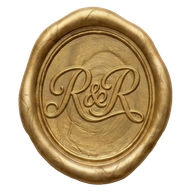
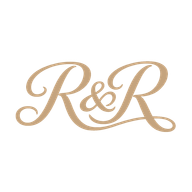
Save the date improvements

diff --git a/src/components/WeddingCalendarButton.tsx b/src/components/WeddingCalendarButton.tsx
@@ -24,29 +24,39 @@ export type WeddingCalendarVariant = "hero" | "forestGold";
 
 const triggerStyles: Record<WeddingCalendarVariant, string> = {
   hero:
-    "inline-flex items-center gap-3 rounded-full border border-white/20 px-8 py-3 font-sans text-[13px] font-semibold text-white/70 backdrop-blur-sm transition-all duration-300 hover:border-gold/50 hover:text-gold",
+    "flex flex-col items-center gap-1.5 rounded-full border border-white/20 px-5 py-3 font-sans text-[11px] font-semibold text-white/70 backdrop-blur-sm transition-all duration-300 hover:border-gold/50 hover:text-gold sm:flex-row sm:gap-3 sm:px-8 sm:text-[13px]",
   forestGold:
-    "inline-flex items-center gap-3 rounded-full border border-gold/45 px-8 py-3 font-sans text-[13px] font-semibold text-gold/90 backdrop-blur-sm transition-all duration-300 hover:border-gold hover:bg-gold/10 hover:text-gold",
+    "flex flex-col items-center gap-1.5 rounded-full border border-gold/45 px-5 py-3 font-sans text-[11px] font-semibold text-gold/90 backdrop-blur-sm transition-all duration-300 hover:border-gold hover:bg-gold/10 hover:text-gold sm:flex-row sm:gap-3 sm:px-8 sm:text-[13px]",
 };
 
 const menuItemStyles: Record<WeddingCalendarVariant, string> = {
   hero:
-    "flex items-center justify-center gap-2 whitespace-nowrap rounded-full border border-white/15 bg-deep/90 px-4 py-2.5 font-sans text-[10px] font-medium uppercase text-white/70 backdrop-blur-md transition-colors hover:border-gold/50 hover:text-gold",
+    "flex items-center justify-center gap-1.5 rounded-full border border-white/15 bg-deep/90 px-5 py-3 font-sans text-[11px] font-medium text-white/70 backdrop-blur-md transition-colors hover:border-gold/50 hover:text-gold sm:gap-3 sm:px-8 sm:py-3 sm:text-[13px]",
   forestGold:
-    "flex items-center justify-center gap-2 whitespace-nowrap rounded-full border border-gold/25 bg-forest px-4 py-2.5 font-sans text-[10px] font-medium uppercase text-gold/85 backdrop-blur-md transition-colors hover:border-gold/50 hover:bg-gold/5 hover:text-gold",
+    "flex items-center justify-center gap-2 rounded-full border border-gold/25 bg-forest px-5 py-2.5 font-sans text-[11px] font-medium text-gold/85 backdrop-blur-md transition-colors hover:border-gold/50 hover:bg-gold/5 hover:text-gold sm:px-6 sm:py-2.5 sm:text-[11px]",
 };
+
+const solidTriggerStyle = "flex items-center justify-center gap-2.5 rounded-full bg-gold px-6 py-3 font-sans text-[13px] font-normal text-charcoal backdrop-blur-sm transition-all duration-300 hover:bg-gold/90";
+
+const solidMenuItemStyle = "flex items-center justify-center gap-2.5 rounded-full border border-gold/25 bg-forest px-6 py-3 font-sans text-[13px] font-medium text-gold/85 backdrop-blur-md transition-colors hover:border-gold/50 hover:bg-gold/5 hover:text-gold";
 
 export function WeddingCalendarButton({
   className = "",
   variant = "hero",
   onOpenChange,
   direction = "up",
+  inline = false,
+  solid = false,
 }: {
   className?: string;
   variant?: WeddingCalendarVariant;
   /** Fires when the calendar menu opens or closes (e.g. to grow a parent modal). */
   onOpenChange?: (open: boolean) => void;
   direction?: "up" | "down";
+  /** If true, always show icon and text in a row (not stacked on mobile) */
+  inline?: boolean;
+  /** If true, use solid gold background with dark text (like "Get your invite" CTA) */
+  solid?: boolean;
 }) {
   const [open, setOpen] = useState(false);
   const { t } = useI18n();
@@ -78,13 +88,17 @@ export function WeddingCalendarButton({
   };
 
   return (
-    <div ref={wrapperRef} className={`relative inline-flex ${className}`}>
+    <div ref={wrapperRef} className={`relative flex ${className}`}>
       <motion.button
         type="button"
         onClick={() => setOpen(!open)}
         whileHover={{ scale: 1.03 }}
         whileTap={{ scale: 0.97 }}
-        className={triggerStyles[variant]}
+        className={solid
+          ? `${solidTriggerStyle} w-full`
+          : inline
+            ? `${menuItemStyles[variant]} w-full`
+            : `${triggerStyles[variant]} w-full justify-center`}
       >
         <svg
           width="17"
@@ -96,13 +110,14 @@ export function WeddingCalendarButton({
           strokeLinecap="round"
           strokeLinejoin="round"
           aria-hidden
+          className={`shrink-0 ${solid ? "h-[22px] w-[22px]" : inline ? "" : "h-5 w-5 sm:h-[17px] sm:w-[17px]"}`}
         >
           <rect x="3" y="4" width="18" height="18" rx="2" />
           <line x1="16" y1="2" x2="16" y2="6" />
           <line x1="8" y1="2" x2="8" y2="6" />
           <line x1="3" y1="10" x2="21" y2="10" />
         </svg>
-        {t.saveTheDate.addToCalendar}
+        <span className="whitespace-nowrap">{t.saveTheDate.addToCalendar}</span>
       </motion.button>
 
       <AnimatePresence>
@@ -120,7 +135,7 @@ export function WeddingCalendarButton({
               target="_blank"
               rel="noopener noreferrer"
               onClick={() => setOpen(false)}
-              className={menuItemStyles[variant]}
+              className={solid ? solidMenuItemStyle : menuItemStyles[variant]}
             >
               <svg
                 width="17"
@@ -128,18 +143,19 @@ export function WeddingCalendarButton({
                 viewBox="0 0 24 24"
                 fill="currentColor"
                 aria-hidden
+                className={`shrink-0 ${solid ? "h-[22px] w-[22px]" : ""}`}
               >
                 <path d="M22.56 12.25c0-.78-.07-1.53-.2-2.25H12v4.26h5.92a5.06 5.06 0 01-2.2 3.32v2.77h3.57c2.08-1.92 3.28-4.74 3.28-8.1z" />
                 <path d="M12 23c2.97 0 5.46-.98 7.28-2.66l-3.57-2.77c-.98.66-2.23 1.06-3.71 1.06-2.86 0-5.29-1.93-6.16-4.53H2.18v2.84C3.99 20.53 7.7 23 12 23z" />
                 <path d="M5.84 14.09c-.22-.66-.35-1.36-.35-2.09s.13-1.43.35-2.09V7.07H2.18C1.43 8.55 1 10.22 1 12s.43 3.45 1.18 4.93l3.66-2.84z" />
                 <path d="M12 5.38c1.62 0 3.06.56 4.21 1.64l3.15-3.15C17.45 2.09 14.97 1 12 1 7.7 1 3.99 3.47 2.18 7.07l3.66 2.84c.87-2.6 3.3-4.53 6.16-4.53z" />
               </svg>
-              {t.saveTheDate.googleCalendar}
+              <span className="whitespace-nowrap">{t.saveTheDate.googleCalendar}</span>
             </a>
             <button
               type="button"
               onClick={downloadICS}
-              className={menuItemStyles[variant]}
+              className={solid ? solidMenuItemStyle : menuItemStyles[variant]}
             >
               <svg
                 width="17"
@@ -147,10 +163,11 @@ export function WeddingCalendarButton({
                 viewBox="0 0 24 24"
                 fill="currentColor"
                 aria-hidden
+                className={`shrink-0 ${solid ? "h-[22px] w-[22px]" : ""}`}
               >
                 <path d="M18.71 19.5c-.83 1.24-1.71 2.45-3.05 2.47-1.34.03-1.77-.79-3.29-.79-1.53 0-2 .77-3.27.82-1.31.05-2.3-1.32-3.14-2.53C4.25 17 2.94 12.45 4.7 9.39c.87-1.52 2.43-2.48 4.12-2.51 1.28-.02 2.5.87 3.29.87.78 0 2.26-1.07 3.8-.91.65.03 2.47.26 3.64 1.98-.09.06-2.17 1.28-2.15 3.81.03 3.02 2.65 4.03 2.68 4.04-.03.07-.42 1.44-1.38 2.83M13 3.5c.73-.83 1.94-1.46 2.94-1.5.13 1.17-.34 2.35-1.04 3.19-.69.85-1.83 1.51-2.95 1.42-.15-1.15.41-2.35 1.05-3.11z" />
               </svg>
-              {t.saveTheDate.appleCalendar}
+              <span className="whitespace-nowrap">{t.saveTheDate.appleCalendar}</span>
             </button>
           </motion.div>
         )}

diff --git a/src/app/save-the-date/page.tsx b/src/app/save-the-date/page.tsx
@@ -11,7 +11,7 @@ import { playfairDisplay, inter } from "@/lib/fonts";
 const ENVELOPE_DESKTOP = "https://media.rickyandrosa.com/envelope.mp4";
 const ENVELOPE_MOBILE = "https://media.rickyandrosa.com/envelope-mobile.mp4";
 const ENVELOPE_FADE_AT = 3;      // seconds into video before fade starts
-const ENVELOPE_FADE_DUR = 0.5;     // seconds the fade-out lasts
+const ENVELOPE_FADE_DUR = 0.8;     // seconds the fade-out lasts
 
 function Envelope({ onOpen }: { onOpen: (bgAudio: HTMLAudioElement) => void }) {
   const { t } = useI18n();
@@ -84,7 +84,7 @@ function Envelope({ onOpen }: { onOpen: (bgAudio: HTMLAudioElement) => void }) {
   return (
     <motion.div
       exit={{ opacity: 0 }}
-      transition={{ duration: 2 }}
+      transition={{ duration: ENVELOPE_FADE_DUR, ease: "easeInOut" }}
       layout={false}
       className="fixed inset-0 overflow-hidden bg-black"
     >
@@ -98,7 +98,7 @@ function Envelope({ onOpen }: { onOpen: (bgAudio: HTMLAudioElement) => void }) {
           muted
           playsInline
           preload="auto"
-          className="h-full w-full select-none object-cover object-center"
+          className="h-full w-full select-none object-cover object-center sepia-[0.15] saturate-[1.1] brightness-[1.02] sm:sepia-0 sm:saturate-100 sm:brightness-100"
         />
       </motion.div>
 
@@ -107,12 +107,12 @@ function Envelope({ onOpen }: { onOpen: (bgAudio: HTMLAudioElement) => void }) {
         initial={{ opacity: 0 }}
         animate={{ opacity: phase === "sealed" ? 1 : 0 }}
         transition={{ delay: 1.5, duration: 1 }}
-        className="absolute bottom-[5%] left-0 right-0 z-[25] flex justify-center pointer-events-none"
+        className="absolute left-0 right-0 bottom-8 z-[999] flex justify-center pointer-events-none sm:bottom-12 md:bottom-16"
       >
         <motion.p
           animate={{ opacity: [0.6, 1, 0.6] }}
           transition={{ duration: 2.5, repeat: Infinity, ease: "easeInOut" }}
-          className="font-sans text-sm font-light uppercase tracking-[0.3em] text-white/70 sm:text-sm"
+          className="font-sans text-sm font-medium uppercase tracking-[0.3em] text-[#8B7355] drop-shadow-[0_1px_2px_rgba(255,255,255,0.5)] sm:text-base"
         >
           {t.saveTheDate.tapSeal}
         </motion.p>
@@ -155,7 +155,11 @@ function SaveTheDateContent({ bgAudio }: { bgAudio: HTMLAudioElement | null }) {
   }, [inviteOpen]);
 
   return (
-    <>
+    <motion.div
+      initial={{ opacity: 0 }}
+      animate={{ opacity: 1 }}
+      transition={{ duration: 0.8, delay: 0.1, ease: "easeOut" }}
+    >
       <section className="relative flex h-dvh min-h-dvh flex-col items-center overflow-hidden bg-deep">
         <motion.div
           className="absolute inset-0"
@@ -164,26 +168,17 @@ function SaveTheDateContent({ bgAudio }: { bgAudio: HTMLAudioElement | null }) {
             src="/save-the-date-bg.jpg"
             alt=""
             className="absolute inset-0 h-full w-full object-cover opacity-40"
+            style={{ objectPosition: "60% center" }}
           />
           <div className="absolute inset-0 bg-deep/40" />
           <div className="std-grain absolute inset-0 opacity-[0.03]" />
         </motion.div>
 
         <div className="relative z-10 mt-16 flex justify-center sm:mt-20">
-          <div
-            className="w-[208px] aspect-[2/1] bg-gold opacity-90 sm:w-[288px] md:w-[368px] lg:w-[416px]"
-            role="img"
-            aria-label="Riccardo & Rosa"
-            style={{
-              WebkitMaskImage: "url(/rr-logo.png)",
-              maskImage: "url(/rr-logo.png)",
-              WebkitMaskSize: "contain",
-              maskSize: "contain",
-              WebkitMaskRepeat: "no-repeat",
-              maskRepeat: "no-repeat",
-              WebkitMaskPosition: "center",
-              maskPosition: "center",
-            }}
+          <img
+            src="/rr-logo-gold.png"
+            alt="Riccardo & Rosa"
+            className="w-[208px] opacity-90 sm:w-[288px] md:w-[368px] lg:w-[416px]"
           />
         </div>
 
@@ -205,17 +200,17 @@ function SaveTheDateContent({ bgAudio }: { bgAudio: HTMLAudioElement | null }) {
           </p>
         </div>
 
-        <div className="relative z-10 mt-auto mb-6 flex items-center justify-center gap-4 px-6 sm:mb-8">
+        <div className="relative z-10 mt-auto mb-6 grid w-full grid-cols-2 gap-3 px-4 sm:mb-8 sm:flex sm:w-auto sm:gap-4 sm:px-6">
           <motion.button
             type="button"
             whileHover={{ scale: 1.03 }}
             whileTap={{ scale: 0.97 }}
             onClick={() => setInviteOpen(true)}
-            className="inline-flex items-center gap-3 rounded-full bg-gold px-8 py-3 font-sans text-[13px] font-semibold text-charcoal backdrop-blur-sm transition-all duration-300 hover:bg-gold/90"
+            className="flex flex-col items-center justify-center gap-1.5 rounded-full bg-gold px-5 py-3 font-sans text-[11px] font-semibold text-charcoal backdrop-blur-sm transition-all duration-300 hover:bg-gold/90 sm:flex-row sm:gap-3 sm:px-8 sm:text-[13px]"
           >
             <svg
-              width="17"
-              height="17"
+              width="20"
+              height="20"
               viewBox="0 0 24 24"
               fill="none"
               stroke="currentColor"
@@ -223,13 +218,14 @@ function SaveTheDateContent({ bgAudio }: { bgAudio: HTMLAudioElement | null }) {
               strokeLinecap="round"
               strokeLinejoin="round"
               aria-hidden
+              className="sm:h-[17px] sm:w-[17px]"
             >
               <path d="M4 4h16c1.1 0 2 .9 2 2v12c0 1.1-.9 2-2 2H4c-1.1 0-2-.9-2-2V6c0-1.1.9-2 2-2z" />
               <path d="m22 6-10 7L2 6" />
             </svg>
-            {t.saveTheDate.getFormalInvite}
+            <span className="whitespace-nowrap">{t.saveTheDate.getFormalInvite}</span>
           </motion.button>
-          <WeddingCalendarButton />
+          <WeddingCalendarButton className="w-full sm:w-auto" />
         </div>
       </section>
 
@@ -241,7 +237,7 @@ function SaveTheDateContent({ bgAudio }: { bgAudio: HTMLAudioElement | null }) {
             animate={{ opacity: 1 }}
             exit={{ opacity: 0 }}
             transition={{ duration: 0.2 }}
-            className="fixed inset-0 z-[80] flex items-center justify-center bg-black/55 p-10 sm:p-12 md:p-16 backdrop-blur-sm"
+            className="fixed inset-0 z-[80] flex items-center justify-center overflow-y-auto bg-black/55 p-6 sm:p-12 md:p-16 backdrop-blur-sm"
             onMouseDown={(e) => {
               if (e.target === e.currentTarget) setInviteOpen(false);
             }}
@@ -269,7 +265,7 @@ function SaveTheDateContent({ bgAudio }: { bgAudio: HTMLAudioElement | null }) {
           </motion.div>
         )}
       </AnimatePresence>
-    </>
+    </motion.div>
   );
 }
 

diff --git a/src/components/Navigation.tsx b/src/components/Navigation.tsx
@@ -51,21 +51,9 @@ export function Navigation() {
         className="fixed top-0 left-0 right-0 z-50"
       >
         <nav className="flex items-center justify-between px-4 py-4 sm:px-6" style={{ paddingTop: "max(1rem, env(safe-area-inset-top, 0px))" }}>
-          <Link
-            href="/"
-            className="block h-10 w-20 shrink-0 bg-gold"
-            style={{
-              WebkitMaskImage: "url(/rr-logo.png)",
-              maskImage: "url(/rr-logo.png)",
-              WebkitMaskSize: "contain",
-              maskSize: "contain",
-              WebkitMaskRepeat: "no-repeat",
-              maskRepeat: "no-repeat",
-              WebkitMaskPosition: "center",
-              maskPosition: "center",
-            }}
-            aria-label="R&R Home"
-          />
+          <Link href="/" className="block shrink-0" aria-label="R&R Home">
+            <img src="/rr-logo-gold.png" alt="R&R" className="h-10 w-auto" />
+          </Link>
           <LanguageToggle className="relative z-50 text-white/90" />
         </nav>
       </motion.header>
@@ -85,21 +73,9 @@ export function Navigation() {
       >
         <nav className="flex items-center justify-between px-4 py-4 sm:px-6" style={{ paddingTop: "max(1rem, env(safe-area-inset-top, 0px))" }}>
           {/* Left — R&R logo */}
-          <Link
-            href="/"
-            className="block h-10 w-20 shrink-0 bg-gold"
-            style={{
-              WebkitMaskImage: "url(/rr-logo.png)",
-              maskImage: "url(/rr-logo.png)",
-              WebkitMaskSize: "contain",
-              maskSize: "contain",
-              WebkitMaskRepeat: "no-repeat",
-              maskRepeat: "no-repeat",
-              WebkitMaskPosition: "center",
-              maskPosition: "center",
-            }}
-            aria-label="R&R Home"
-          />
+          <Link href="/" className="block shrink-0" aria-label="R&R Home">
+            <img src="/rr-logo-gold.png" alt="R&R" className="h-10 w-auto" />
+          </Link>
 
           {/* Center — Desktop nav */}
           <ul className="hidden items-center gap-8 lg:flex">

diff --git a/src/components/Footer.tsx b/src/components/Footer.tsx
@@ -12,20 +12,10 @@ export function Footer() {
   return (
     <footer className="border-t border-divider bg-ivory py-16">
       <div className="mx-auto max-w-7xl px-6 text-center lg:px-12">
-        <div
-          className="mx-auto h-20 w-40 bg-gold"
-          role="img"
-          aria-label="R&R"
-          style={{
-            WebkitMaskImage: "url(/rr-logo.png)",
-            maskImage: "url(/rr-logo.png)",
-            WebkitMaskSize: "contain",
-            maskSize: "contain",
-            WebkitMaskRepeat: "no-repeat",
-            maskRepeat: "no-repeat",
-            WebkitMaskPosition: "center",
-            maskPosition: "center",
-          }}
+        <img
+          src="/rr-logo-gold.png"
+          alt="R&R"
+          className="mx-auto h-20 w-auto"
         />
         <div className="editorial-divider" />
         <p className="font-sans text-xs font-light uppercase tracking-[0.3em] text-warm-gray">

diff --git a/src/lib/i18n/it.ts b/src/lib/i18n/it.ts
@@ -28,7 +28,7 @@ const it: Translations = {
     summerBologna: "19 Giugno 2027 \u00A0·\u00A0 Bologna, Italia",
     date: "19 Giugno 2027",
     location: "Bologna, Italia",
-    heroBody: "Segnati la data",
+    heroBody: "Metti in calendario",
     addToCalendar: "Aggiungi al Calendario",
     googleCalendar: "Google Calendar",
     appleCalendar: "Apple Calendar",

diff --git a/src/app/layout.tsx b/src/app/layout.tsx
@@ -12,7 +12,7 @@ export const viewport: Viewport = {
 };
 
 export const metadata: Metadata = {
-  title: "R&R Wedding | Summer 2027 | Bologna, Italy",
+  title: "R&R Wedding",
   description: "The wedding of Riccardo & Rosa — Summer 2027 in Bologna, Italy",
   icons: {
     icon: [

diff --git a/src/components/GuestInfoForm.tsx b/src/components/GuestInfoForm.tsx
@@ -298,6 +298,7 @@ export function GuestInfoForm({
                     variant="forestGold"
                     onOpenChange={setForestCalendarOpen}
                     direction="down"
+                    solid
                   />
                 </div>
               )}
